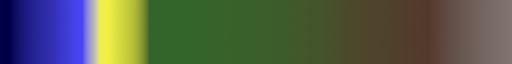
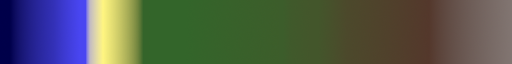
Update 20221119.2
Mejoré la textura, ahora suma octavas

Changed region(s): [[0.1562, 0.0, 0.3125, 1.0]]

diff --git a/src/main.cpp b/src/main.cpp
@@ -20,11 +20,11 @@ using namespace std;
 
 typedef struct {
 	int tamanioMapa = 31;
-	int numeroDeOctavas = 8;  		//numero de octavas
+	int numeroDeOctavas = 5;  		//numero de octavas
 	int fact = 1; 					//escala de ruido
 	int freq = 1;			 		//frecuencia
 	int amp = 1;					//amplitud
-	int seed = 0;           		//seed para el srand()
+	int seed = 65;           		//seed para el srand()
 	float persistency = 2.f;       	//
 	float lacunarity = 0.5f;       	//
 //	float 
@@ -51,22 +51,23 @@ vector<vector<float>> createNoiseMap(){
 	srand(parametros.seed); 
 	vector<vector<float>> noiseMap(parametros.tamanioMapa+1,vector<float>(parametros.tamanioMapa+1));
 	
-	//armar la primera octava
-	int tamanioSubdivision = parametros.tamanioMapa/parametros.freq;
+	
+	float frecuencia = parametros.freq;
+	float amplitud = parametros.amp;
+	int tamanioSubdivision = parametros.tamanioMapa/frecuencia;
 	
 //	if(tamanioSubdivision<1) tamanioSubdivision=1; //para que no rompa con cualca frecuecia.
 	
-	while(parametros.tamanioMapa%tamanioSubdivision){
-//		--tamanioSubdivision; //esto verifica que la frecuencia sea potencia de 2. 
-		cout<<"rompe el tamanio de subdiv";
-	}
+	//tamanioSubdivision; //esto verifica que la frecuencia sea potencia de 2. 
+	while(parametros.tamanioMapa%tamanioSubdivision) cout<<endl<<"Rompe el tamanio de subdiv"<<endl<<endl;
 	
+	///PRIMERA OCTAVA
 	for(int i=0;i<=parametros.tamanioMapa;i+=tamanioSubdivision){
 		
 		for(int j=0;j<=parametros.tamanioMapa;j+=tamanioSubdivision){
 			
 			//Crear nodos
-			noiseMap[i][j] = parametros.amp*((float)rand()/RAND_MAX);
+			noiseMap[i][j] = amplitud*((float)rand()/RAND_MAX);
 			
 			//Interpolar puntos interiores
 			if(i>=tamanioSubdivision && j>=tamanioSubdivision){
@@ -82,6 +83,50 @@ vector<vector<float>> createNoiseMap(){
 					}
 				} 
 				
+			}
+		}
+		
+	}
+	
+	for(int o=1;o<parametros.numeroDeOctavas;o++) { 
+		
+		frecuencia *= parametros.persistency;
+		amplitud *= parametros.lacunarity;
+		tamanioSubdivision = parametros.tamanioMapa/frecuencia;
+		
+		vector<vector<float>> nuevaOctava(parametros.tamanioMapa+1,vector<float>(parametros.tamanioMapa+1));
+		
+		
+		
+		for(int i=0;i<=parametros.tamanioMapa;i+=tamanioSubdivision){
+			
+			for(int j=0;j<=parametros.tamanioMapa;j+=tamanioSubdivision){
+				
+				//Crear nodos
+				nuevaOctava[i][j] = amplitud*((float)rand()/RAND_MAX);
+				
+				//Interpolar puntos interiores
+				if(i>=tamanioSubdivision && j>=tamanioSubdivision){
+					
+					for(int a=i-tamanioSubdivision; a<=i; a++){
+						for(int b=j-tamanioSubdivision; b<=j; b++){
+							
+							int x1=i-tamanioSubdivision;
+							int x2=i;
+							int y1=j-tamanioSubdivision;
+							int y2=j;
+							nuevaOctava[a][b] = interpolacionBilineal(x1, y1, x2, y2, nuevaOctava[x1][y1], nuevaOctava[x2][y1], nuevaOctava[x1][y2], nuevaOctava[x2][y2], a, b);
+						}
+					} 
+					
+				}
+			}
+			
+		}
+		
+		for(int m=0; m<noiseMap.size();m++) { 
+			for(int n=0; n<noiseMap[m].size();n++) { 
+				noiseMap[m][n] += nuevaOctava[m][n];
 			}
 		}
 		
@@ -135,10 +180,10 @@ void modifyMesh(const std::vector<glm::vec3> &v,std::vector<glm::vec3> &vertices
 													xRuido, zRuido);
 		}
 		
+		vertices[i] = glm::vec3(v[i].x,valorInterpolado*0.3f,v[i].z);
 		
-		vertices[i] = glm::vec3(v[i].x,valorInterpolado,v[i].z);
-		
-		float s = min(vertices[i].y*2.f,0.999f);
+		float s = min(vertices[i].y*2.f-0.2f,0.999f);
+		if(s<0.001f)s=0.001f;
 		float t = 0.1f;
 		coords[i] = glm::vec2(s,t);
 		
